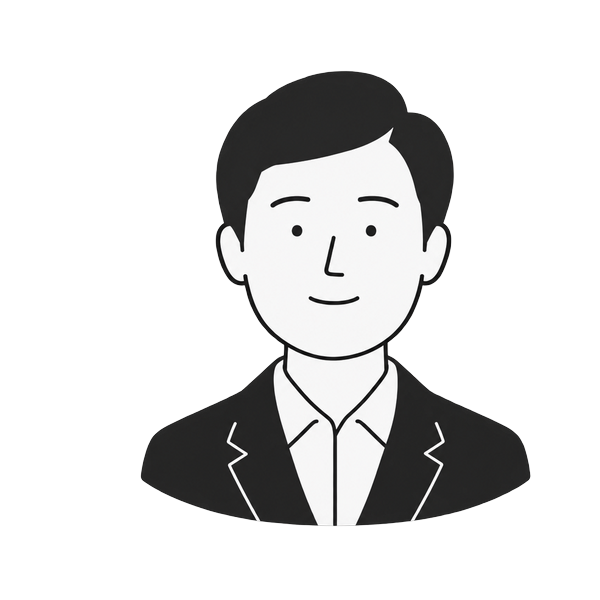
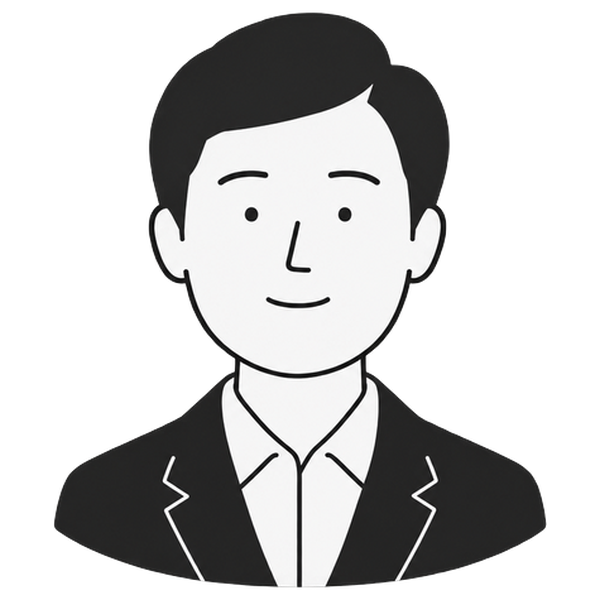
客家選情 3D 地圖：候選人插圖裁邊並放大至滿框 95%

Changed region(s): [[0.09, 0.0, 0.93, 0.99]]

diff --git a/hakka-election-3d/index.html b/hakka-election-3d/index.html
@@ -110,9 +110,9 @@
   .ph{display:inline-block;font-size:11px;font-weight:700;color:#7a5b00;background:#fff3cf;padding:0 7px;border-radius:999px;vertical-align:1px}
   .cands{display:grid;grid-template-columns:1fr 1fr;gap:10px}
   .cand{--cc:#1f7a8c;border:2px solid color-mix(in srgb,var(--cc) 55%,transparent);border-radius:12px;background:#f7f2e5;padding-bottom:10px;text-align:center;overflow:hidden}
-  .cand .art{background:color-mix(in srgb,var(--cc) 16%,var(--paper));aspect-ratio:1/0.72;display:grid;place-items:end center;position:relative}
-  .cand .art svg,.cand .art img{width:62%;height:auto;display:block}
-  .cand .art img{width:auto;height:96%;max-width:90%;object-fit:contain}
+  .cand .art{background:color-mix(in srgb,var(--cc) 16%,var(--paper));aspect-ratio:1/0.9;display:grid;place-items:end center;position:relative}
+  .cand .art svg{width:62%;height:auto;display:block}
+  .cand .art img{display:block;width:95%;height:95%;object-fit:contain;object-position:center bottom}   /* 插圖滿框 95% */
   .cand .art .ph{position:absolute;top:8px;left:8px}
   .cand .nm{font:900 15.5px/1.2 var(--serif);margin-top:6px}
   .cand .party{display:inline-block;margin:3px 0;font-size:11px;font-weight:700;color:#fff;background:var(--cc);padding:1px 10px;border-radius:999px}
